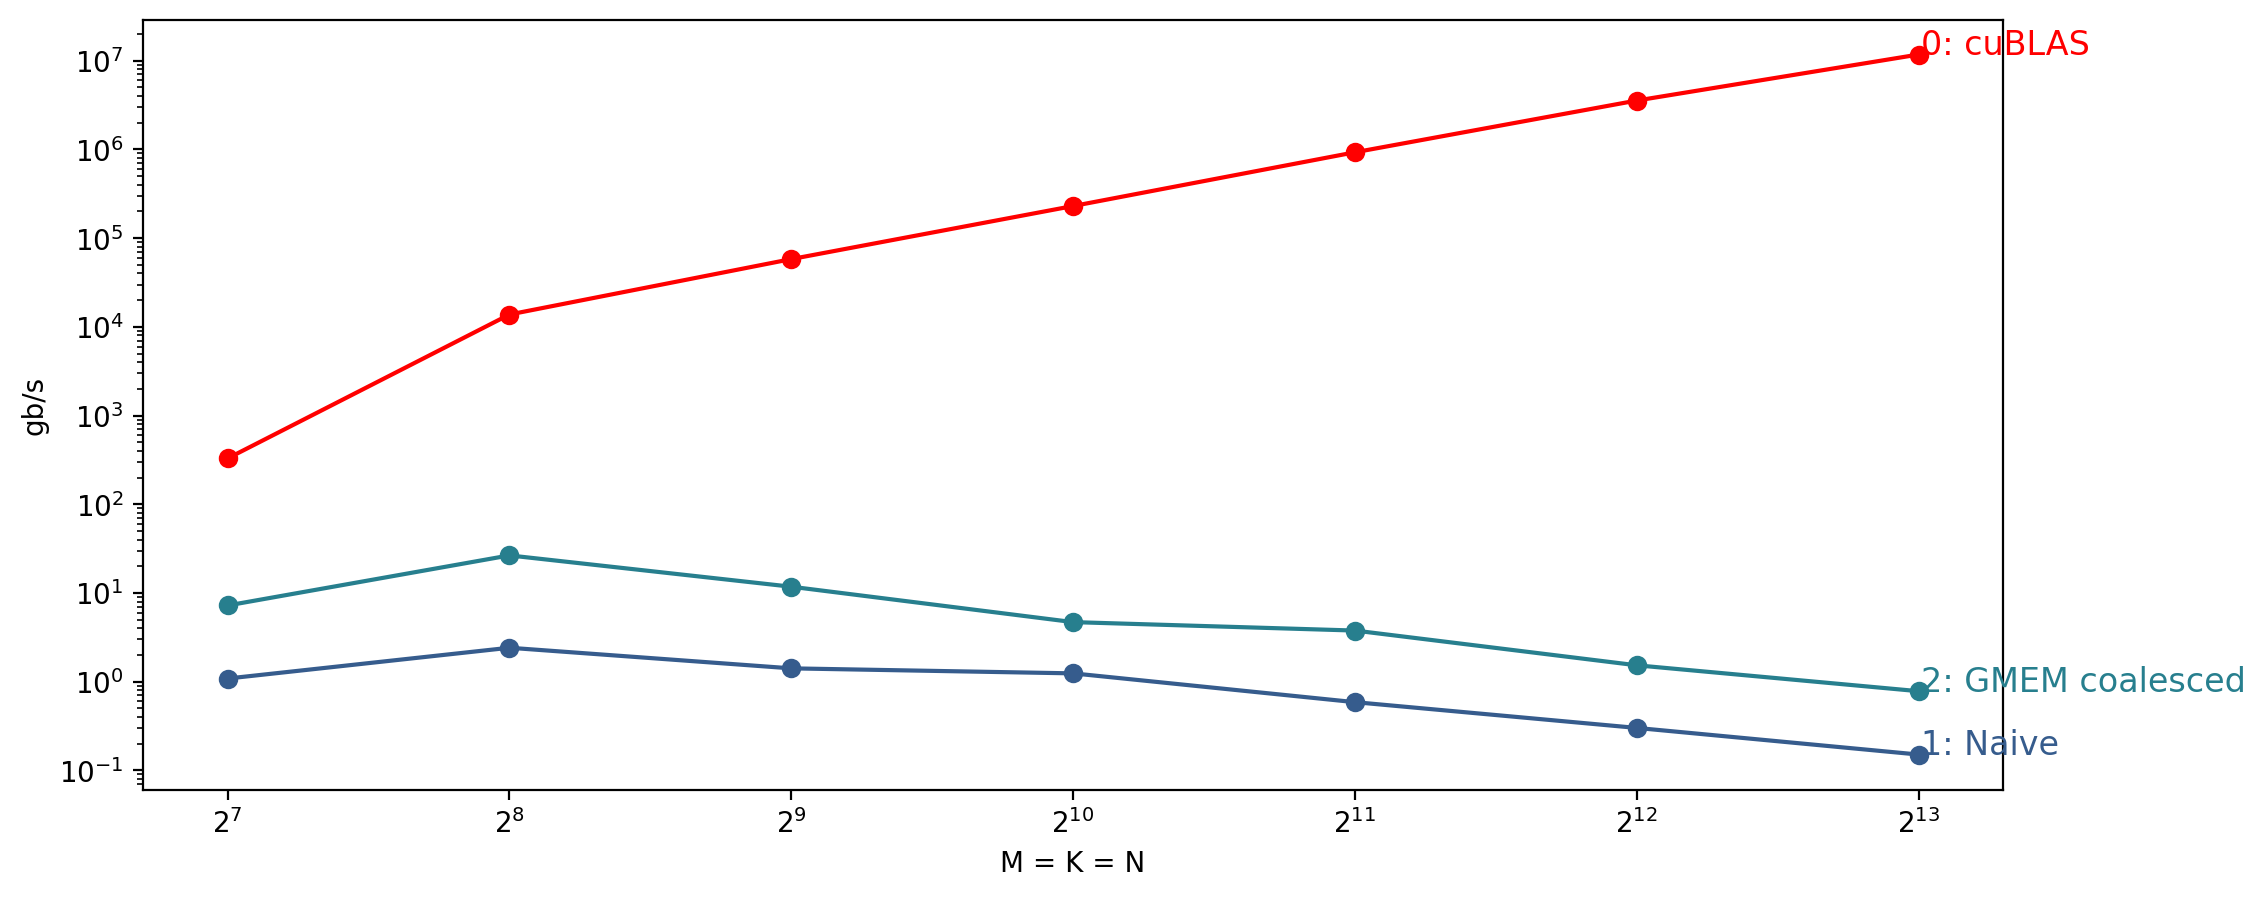
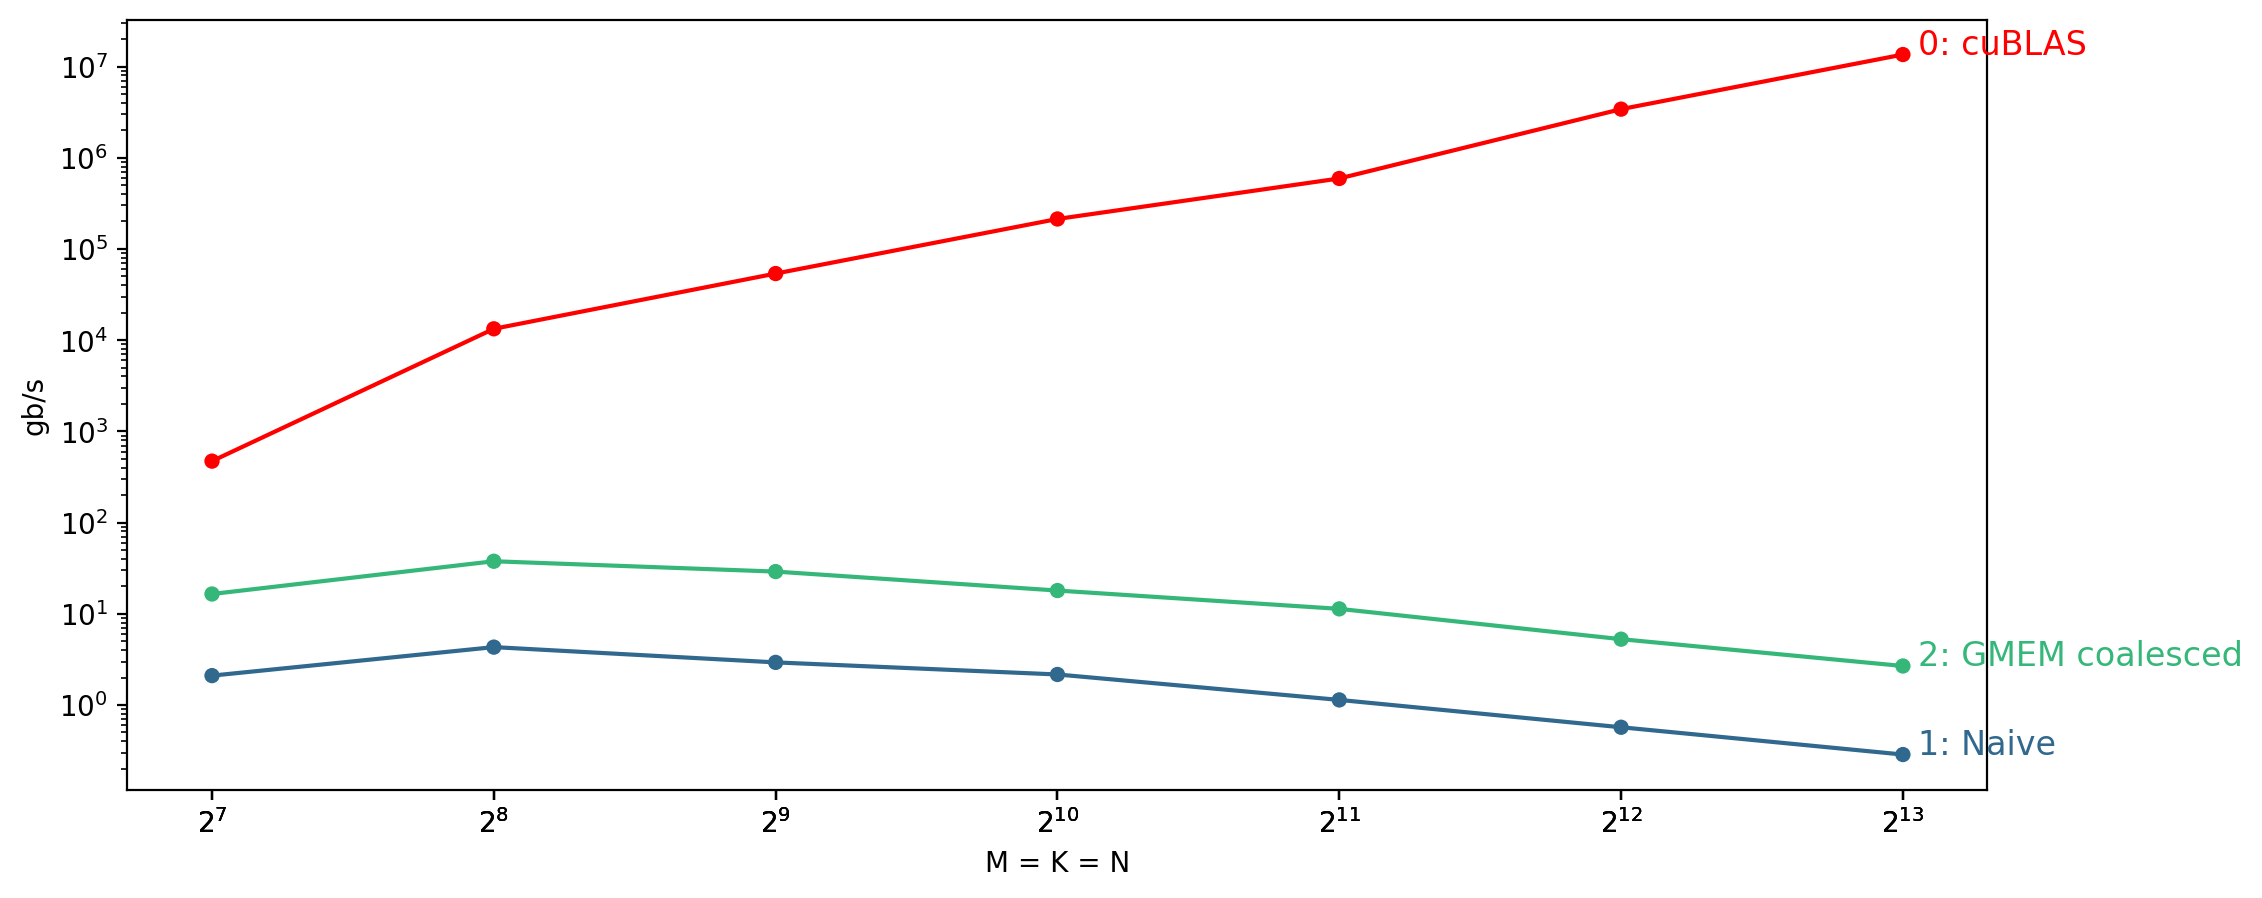
Allow benchmarking individual kernels

diff --git a/plot_perf.py b/plot_perf.py
@@ -4,11 +4,11 @@
 
 import json
 import os
-from functools import lru_cache
 from typing import Dict, List, Literal
 
 import matplotlib as mpl
 import matplotlib.pyplot as plt
+import pandas as pd
 import seaborn as sns
 
 mpl.rcParams["font.family"] = "sans-serif"
@@ -20,10 +20,10 @@ KERNEL_IDX_TO_NAME = {
     0: "cuBLAS",
     1: "Naive",
     2: "GMEM coalesced",
+    3: "SMEM blocking",
 }
 
 
-@lru_cache(maxsize=None)
 def read_jsonl(filepath: str) -> Dict[str, List[float]]:
     data = {"size": [], "runtime": [], "tflops/s": [], "gb/s": []}
     with open(filepath, "r") as f:
@@ -31,13 +31,50 @@ def read_jsonl(filepath: str) -> Dict[str, List[float]]:
             line = json.loads(line)
             data["size"].append(line["size"])
             data["runtime"].append(line["runtime"])
-            data["tflops/s"].append(line["performance"])
-            data["gb/s"].append(line["throughput"])
+            data["tflops/s"].append(line["flopsThroughput"])
+            data["gb/s"].append(line["memThroughput"])
     return data
 
 
+def get_data(benchmark_dir: str) -> pd.DataFrame:
+    records = []
+    for kernel_idx, _ in KERNEL_IDX_TO_NAME.items():
+        filepath = os.path.join(benchmark_dir, f"{kernel_idx}.jsonl")
+        if not os.path.exists(filepath):
+            print(f"WARNING: kernel-{kernel_idx} performance data not found (omitted)")
+            continue
+        _data = read_jsonl(filepath)
+        n = len(_data["size"])
+        for i in range(n):
+            records.append(
+                {
+                    "size": _data["size"][i],
+                    "runtime": _data["runtime"][i],
+                    "tflops/s": _data["tflops/s"][i],
+                    "gb/s": _data["gb/s"][i],
+                    "kernel_idx": kernel_idx,
+                }
+            )
+    data = pd.DataFrame.from_records(records)
+    return data
+
+
+def print_md_table(data: pd.DataFrame) -> None:
+    print("| Kernel | FLOPS throughput (TFLOPs/s) | Relative to cuBLAS |")
+    print("|:------:|:---------------------------:|:------------------:|")
+    for kernel_idx, kernel_name in KERNEL_IDX_TO_NAME.items():
+        tflops_s = data.loc[data["kernel_idx"] == kernel_idx, "tflops/s"].iloc[-1]
+        cublas_tflops_s = data.loc[data["kernel_idx"] == 0, "tflops/s"].iloc[-1]
+        print(
+            f"| {kernel_idx}: {kernel_name} "
+            f"| {tflops_s:.3e} "
+            f"| {tflops_s * 100/ cublas_tflops_s:.3f}% |"
+        )
+    print()
+
+
 def plot_perf(
-    benchmark_dir: str,
+    data: pd.DataFrame,
     output_dir: str,
     perf_colname: str,
     *,
@@ -48,7 +85,10 @@ def plot_perf(
     os.makedirs(output_dir, exist_ok=True)
 
     plt.figure(figsize=(12, 5))
-    colors = sns.color_palette("viridis")
+    # cuBLAS is red, the rest are viridis.
+    colors = ["red"] + sns.color_palette(
+        "viridis", n_colors=len(KERNEL_IDX_TO_NAME) - 1
+    )
     plt.xlabel("M = K = N")
     plt.ylabel(perf_colname)
     if xscale == "log2":
@@ -60,23 +100,24 @@ def plot_perf(
     else:
         plt.yscale(yscale)
 
+    sns.scatterplot(
+        x="size",
+        y=perf_colname,
+        data=data,
+        hue="kernel_idx",
+        palette=colors,
+    )
+    sns.lineplot(x="size", y=perf_colname, data=data, hue="kernel_idx", palette=colors)
+    # Don't use the legend; instead, add the text to the plot.
     for kernel_idx, kernel_name in KERNEL_IDX_TO_NAME.items():
-        data = read_jsonl(os.path.join(benchmark_dir, f"{kernel_idx}.jsonl"))
-        color = colors[kernel_idx] if kernel_idx != 0 else "red"
-        sns.lineplot(
-            x="size", y=perf_colname, data=data, label=kernel_name, color=color
-        )
-        plt.scatter(data["size"], data[perf_colname], label=kernel_name, color=color)
-        # Don't use the legend; instead, add the text to the plot.
         plt.text(
-            data["size"][-1] + 50,
-            data[perf_colname][-1],
+            data.loc[data["kernel_idx"] == kernel_idx, "size"].iloc[-1] + 300,
+            data.loc[data["kernel_idx"] == kernel_idx, perf_colname].iloc[-1],
             f"{kernel_idx}: {kernel_name}",
             fontsize=12,
             ha="left",
-            color=color,
+            color=colors[kernel_idx],
         )
-
     plt.xticks(data["size"])
     plt.gca().get_legend().remove()  # remove the legend.
 
@@ -90,10 +131,13 @@ if __name__ == "__main__":
     _cwd = os.path.dirname(__file__)
     benchmark_dir = os.path.join(_cwd, "benchmark")
     output_dir = os.path.join(_cwd, "plots")
+
+    data = get_data(benchmark_dir)
+    print_md_table(data)
     for perf_colname in ["tflops/s", "gb/s"]:
         print(f"Plotting `{perf_colname}` ...")
         plot_perf(
-            benchmark_dir=benchmark_dir,
+            data=data,
             output_dir=output_dir,
             perf_colname=perf_colname,
             xscale="log2",

diff --git a/README.md b/README.md
@@ -9,15 +9,15 @@ Accompanying repo for the blog post: https://tushaargvs.github.io/posts/matmul.h
 
 Running on a single A100 GPU:
 
-![SGEMM performance](plots/perf_tflopsps.svg)
+<img src="plots/perf_tflopsps.png" alt="SGEMM performance" width="600"/>
 
 FLOPS throughput (TFLOPs/s) for SGEMM with matrices of size `M = K = N = 8192`:
 
-| Kernel            | FLOPS throughput (TFLOPs/s) | Relative to cuBLAS |
-| ----------------- | --------------------------- | ------------------ |
-| 0: cuBLAS         | $1.2015362 \times 10^7$     | $100\%$            |
-| 1: Naive          | $0.15457365$                |                    |
-| 2: GMEM coalesced | $0.80059683$                |                    |
+|      Kernel       | FLOPS throughput (TFLOPs/s) | Relative to cuBLAS |
+| :---------------: | :-------------------------: | :----------------: |
+|     0: cuBLAS     |          1.386e+07          |      100.000%      |
+|     1: Naive      |          2.934e-01          |       0.000%       |
+| 2: GMEM coalesced |          2.742e+00          |       0.000%       |
 
 ## Installation
 
@@ -59,7 +59,7 @@ make profile KERNEL=<kernel-num>
 To benchmark all kernels, run:
 
 ```shell
-make bench
+make bench [KERNEL=<kernel-num1>,<kernel-num2>,...]
 ```
 
 ### Troubleshooting
@@ -68,6 +68,7 @@ make bench
 <summary>
     NVCC warning: incompatible redefinition for option <code>compiler-bindir</code>
 </summary>
+<br/>
 This warning means that multiple values for <code>-ccbin</code> 
 (= <code>--compiler-bindir</code>) were passed to <code>nvcc</code>. You can verify if 
 this is the case by running:
@@ -86,6 +87,7 @@ export NVCC_PREPEND_FLAGS=" -ccbin=<path-to-compiler>"
 <summary>
     <code>ERR_NVGPUCTRPERM</code>: Permission issue
 </summary>
+<br/>
 You might need sudo access to run <code>ncu</code> since it accesses the GPU Performance
 Counters. For more info, see:
 <a href="https://developer.nvidia.com/nvidia-development-tools-solutions-err_nvgpuctrperm-permission-issue-performance-counters">
